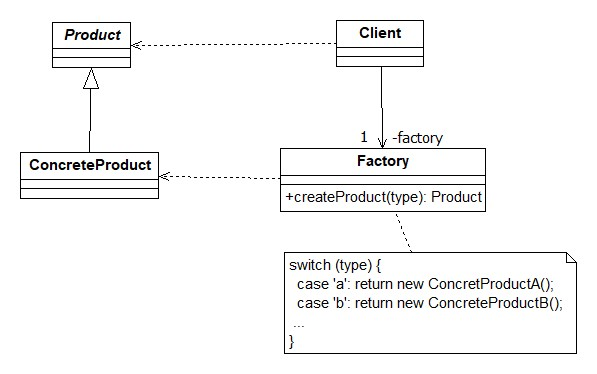
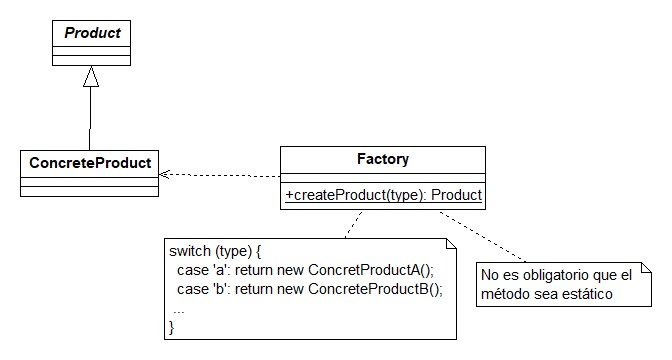
Adicionar ejemplo Simple Factory static

diff --git a/src/factories/simplefactorystatic/Pedido.java b/src/factories/simplefactorystatic/Pedido.java
@@ -1,0 +1,33 @@
+package factories.simplefactorystatic;
+
+/**
+ * Permite obtener los datos de un pedido de un juguete,
+ * especialmente el precio, necesario para el área de Mercadeo.
+ * 
+ * ESTA CLASE NO TIENE QUE CONOCER LAS CLASES HIJAS DE JUGUETE,
+ * CUMPLIENDO CON "DEPENDENCY INVERSION"
+ * 
+ * @version 3.0
+ */
+public class Pedido {
+	
+	private Juguete juguete;
+
+	/**
+	 * Crea un juguete para calcular el valor del pedido,
+	 * USANDO LA FÁBRICA (el método estático).
+	 */
+	public void adicionarJuguete(double precioBase, double volumen, char tipo) {
+		this.juguete = FabricaJuguetes.crearJuguete(precioBase, volumen, tipo);
+	}
+	
+	/**
+	 * Calcula el precio del pedido, sumando el precio del juguete 
+	 * y los gastos administrativos.
+	 * @return el precio total del pedido, en pesos colombianos.
+	 */
+	public double calcularPrecio() {
+		final double GASTOS_ADMINISTRATIVO=2000;
+		return juguete.getPrecioTotal()+GASTOS_ADMINISTRATIVO;
+	}
+}

diff --git a/src/factories/simplefactorystatic/Juguete.java b/src/factories/simplefactorystatic/Juguete.java
@@ -1,0 +1,39 @@
+package factories.simplefactorystatic;
+
+/**
+ * Juguete para bebé, que tiene un empaque especial.
+ * 
+ *  CORRESPONDE AL ROL "Product" DEL PATRÓN SIMPLE FACTORY
+ * 
+ * @version 2.5
+ */
+public abstract class Juguete {
+	private double precioBase;
+	private double volumen;
+	
+	private Empaque empaque;  
+	
+	public Juguete(double precioBase, double volumen) {
+		this.precioBase = precioBase;
+		this.volumen = volumen;
+		this.empaque = crearEmpaque(); 
+	}
+	
+	public double getVolumen() {
+		return volumen;
+	}
+	
+	/**
+	 * Calcula el precio total del juguete, incluyendo el precio del empaque
+	 * @return el precio total, en pesos colombianos. 
+	 */
+	public double getPrecioTotal() {
+		return precioBase + empaque.calcularPrecio();
+	}
+	
+	/**
+	 * Este método debe ser sobreescrito por las hijas,
+	 * para que cada una cree el empaque que le corresponde
+	 */
+	abstract Empaque crearEmpaque();
+}

diff --git a/src/factories/simplefactorystatic/FabricaJuguetes.java b/src/factories/simplefactorystatic/FabricaJuguetes.java
@@ -1,0 +1,29 @@
+package factories.simplefactorystatic;
+
+/**
+ * Se encarga de crear un juguete dependiendo del tipo.
+ * 
+ *  CORRESPONDE AL ROL "Factory" DEL PATRÓN SIMPLE FACTORY
+ *  Con el método de creación estático, para que pueda ser
+ *  usado desde cualquier parte del programa.
+ *  
+ * @version 1.0
+ */
+public class FabricaJuguetes {
+	
+	/**
+	 * ESTE METODO CAMBIA SI APARECE UN NUEVO JUGUETE,
+	 * PERO LA VENTAJA ES QUE ES SU ÚNICA RESPONSABILIDAD
+	 * Y ESTA EN UNA CLASE EXCLUSIVA PARA ESTA FUNCIÓN
+	 */
+	public static Juguete crearJuguete(double precioBase, double volumen, char tipo) {
+		switch (tipo) {
+			case 'p': 
+				return new Peluche(precioBase, volumen);
+			case 'b':
+				return new Balon(precioBase, volumen);
+			default:
+				return null;
+		}
+	}
+}

diff --git a/src/factories/simplefactorystatic/BolsaTela.java b/src/factories/simplefactorystatic/BolsaTela.java
@@ -1,0 +1,27 @@
+package factories.simplefactorystatic;
+
+/**
+ * Una bolsa de tela para empacar un juguete para bebé.
+ * Inicialmente es usada para empacar peluches.
+ * 
+ * @version 1.2
+ */
+public class BolsaTela extends Empaque {
+
+	public BolsaTela(double capacidad) {
+		super(capacidad);
+	}
+
+	@Override
+	public double calcularPrecio() {
+		final double VALOR_BOLSA_PEQUENA=5000;
+		final double VALOR_BOLSA_GRANDE=10000;
+		
+		if (getCapacidad() <= 100) {
+			return VALOR_BOLSA_PEQUENA;
+		}
+		else {
+			return VALOR_BOLSA_GRANDE;
+		}
+	}
+}

diff --git a/src/factories/simplefactorystatic/Empaque.java b/src/factories/simplefactorystatic/Empaque.java
@@ -1,0 +1,25 @@
+package factories.simplefactorystatic;
+
+/**
+ * Un empaque de un juguete para bebé.
+ * Se crea dependiendo del tipo de juguete que se desee empacar.
+ * 
+ * @version 1.2
+ */
+public abstract class Empaque {
+	private double capacidad;
+	
+	public Empaque(double capacidad) {
+		this.capacidad = capacidad;
+	}
+	
+	protected double getCapacidad() {
+		return capacidad;
+	}
+	
+	/**
+	 * Calcula el precio del empaque.
+	 * @return	el precio, en pesos, del empaque
+	 */
+	public abstract double calcularPrecio();
+}

diff --git a/src/factories/simplefactorystatic/Peluche.java b/src/factories/simplefactorystatic/Peluche.java
@@ -1,0 +1,20 @@
+package factories.simplefactorystatic;
+
+/**
+ * Juguete de peluche para bebé, que se empaca en bolsa.
+ * 
+ *  CORRESPONDE AL ROL "Concrete Product" DEL PATRÓN SIMPLE FACTORY
+ *  
+ * @version 1.2
+ */
+public class Peluche extends Juguete {
+	
+	public Peluche(double precioBase, double volumen) {
+		super(precioBase, volumen);
+	}
+
+	@Override
+	public Empaque crearEmpaque() {
+		return new BolsaTela(this.getVolumen() + 10);
+	}
+}

diff --git a/src/factories/simplefactorystatic/Balon.java b/src/factories/simplefactorystatic/Balon.java
@@ -1,0 +1,20 @@
+package factories.simplefactorystatic;
+
+/**
+ * Balón de colores para bebé, que se empaca en caja
+ * 
+ *  CORRESPONDE AL ROL "Concrete Product" DEL PATRÓN SIMPLE FACTORY
+ *  
+ * @version 1.2
+ */
+public class Balon extends Juguete {
+
+	public Balon(double precioBase, double volumen) {
+		super(precioBase, volumen);
+	}
+
+	@Override
+	public Empaque crearEmpaque() {
+		return new Caja(this.getVolumen() + 5);
+	}
+}

diff --git a/src/factories/simplefactorystatic/Caja.java b/src/factories/simplefactorystatic/Caja.java
@@ -1,0 +1,20 @@
+package factories.simplefactorystatic;
+
+/**
+ * Una caja que sirve de empaque de un juguete para bebé.
+ * Inicialmente es usada para empacar balones.
+ * 
+ * @version 1.2
+ */
+public class Caja extends Empaque {
+
+	public Caja(double capacidad) {
+		super(capacidad);
+	}
+
+	@Override
+	public double calcularPrecio() {
+		final double VALOR_METRO=100;
+		return VALOR_METRO * getCapacidad();
+	}
+}
